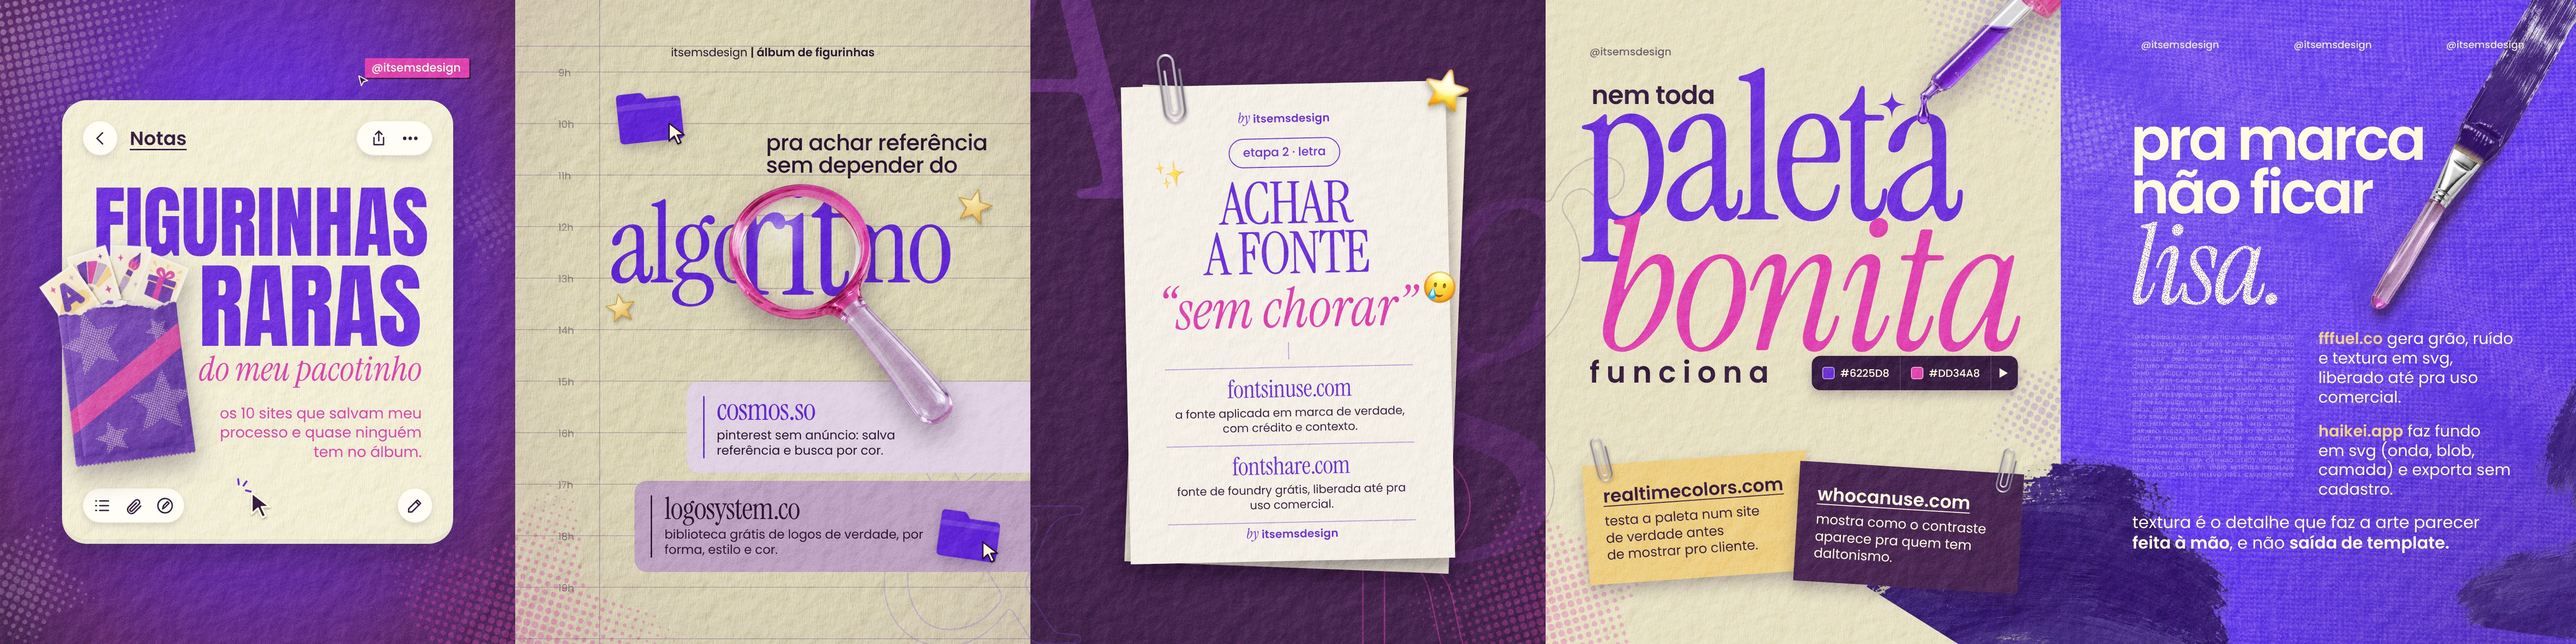
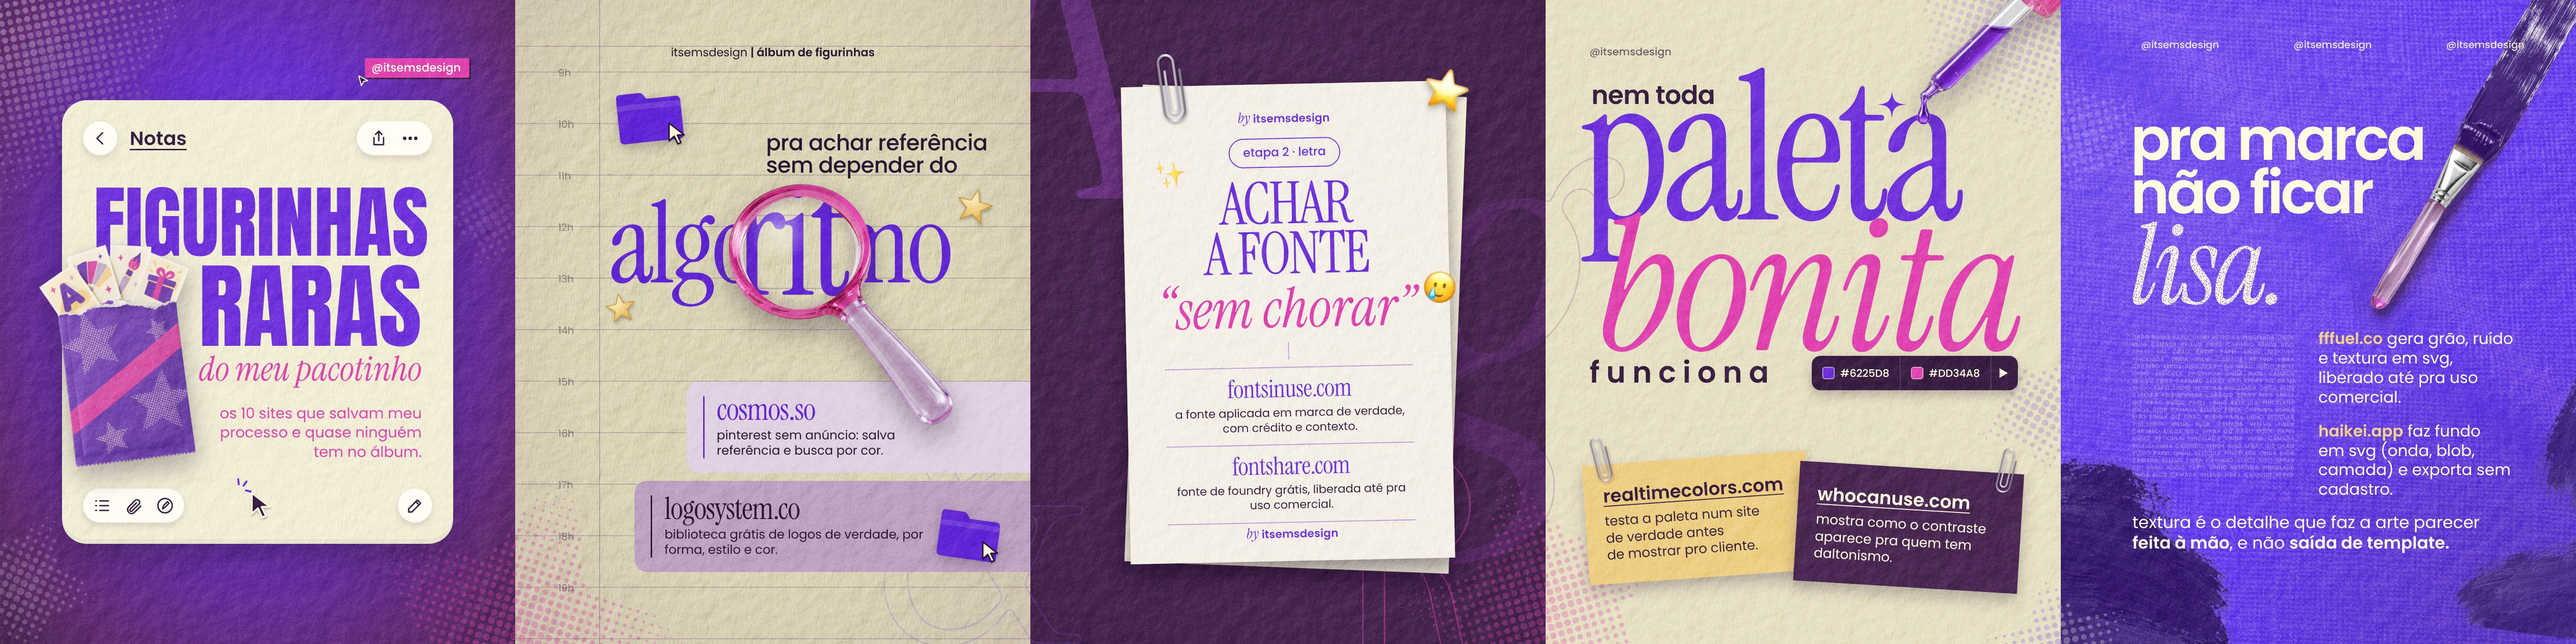
EMS figurinhas raras v4: ponte 4|5 vira estrela em retícula que troca de cor no corte; pincelada fica só na 5
Claude-Session: https://claude.ai/code/session_01CmCiKB9wFc4qQovptupnZT

Changed region(s): [[0.7156, 0.7156, 0.84, 1.0]]

diff --git a/Emi/ems-album-figurinhas/projeto/carrossel.html b/Emi/ems-album-figurinhas/projeto/carrossel.html
@@ -226,6 +226,7 @@ const PINC = 'filter:brightness(.46) saturate(1.3) contrast(1.05)';
   const miudo = Array(14).fill(p.miudo).join(' ');
   const par = (s) => `<p style="margin:0 0 30px"><b style="font-weight:600;color:var(--manteiga)">${s.nome}</b> ${s.pra}</p>`;
   lamina(4, `
+    <img class="abs" src="texturas/pincelada-3.png" style="left:-250px;top:780px;width:520px;transform:rotate(-58deg);${PINC}">
     <img class="abs" src="texturas/pincelada-2.png" style="left:860px;top:640px;width:330px;transform:rotate(8deg);${PINC};opacity:.9">
     <img class="abs" src="${estrelaReticula(340, css('ivory'))}" style="left:-120px;top:110px;width:340px;opacity:.16;transform:rotate(-14deg)">
     <div class="abs" id="tit5" style="left:146px;top:236px;font-family:var(--sans);font-weight:600;font-size:124px;line-height:.9;letter-spacing:-.05em;color:var(--ivory);white-space:nowrap">pra marca<br>não ficar<br><i id="lisa" style="display:inline-block;font-family:var(--serif);font-weight:400;font-size:236px;line-height:.78;letter-spacing:-.03em;margin-top:6px;-webkit-mask-image:var(--mk-gasto);-webkit-mask-size:260px;mask-image:var(--mk-gasto);mask-size:260px">lisa.</i></div>
@@ -253,7 +254,13 @@ const PINC = 'filter:brightness(.46) saturate(1.3) contrast(1.05)';
     pt.insertAdjacentHTML('beforeend', `<div class="abs" style="left:0;top:0;width:${3 * W}px;height:${H}px;overflow:hidden">${g('color:#5a2470;opacity:.45')}</div>
       <div class="abs" style="left:${3 * W}px;top:0;width:${W}px;height:${H}px;overflow:hidden"><div class="abs" style="left:${-3 * W}px;top:0">${g('color:transparent;-webkit-text-stroke:3px rgba(91,33,108,.22)')}</div></div>`);
   }
-  if (N >= 5) pt.insertAdjacentHTML('beforeend', `<img class="abs" src="texturas/pincelada-3.png" style="left:${4 * W - 250}px;top:780px;width:520px;transform:rotate(-58deg);${PINC}">`);
+  /* 4|5: estrela em retícula no pé do corte, violeta no marfim da 4 e marfim no violeta da 5 */
+  if (N >= 5) {
+    const est = (cor) => `<img class="abs" src="${estrelaReticula(380, css(cor))}" style="left:${4 * W - 190}px;top:1175px;width:380px;transform:rotate(-12deg)">`;
+    pt.insertAdjacentHTML('beforeend', `<div class="abs" style="left:0;top:0;width:${4 * W}px;height:${H}px;overflow:hidden;opacity:.3">${est('violeta-2')}</div>`);
+    /* a metade marfim vai na camada da frente, por cima da pincelada escura da 5 */
+    document.getElementById('ponte-frente').insertAdjacentHTML('beforeend', `<div class="abs" style="left:${4 * W}px;top:0;width:${W}px;height:${H}px;overflow:hidden;opacity:.26"><div class="abs" style="left:${-4 * W}px;top:0">${est('ivory')}</div></div>`);
+  }
   if (N >= 4) pt.insertAdjacentHTML('beforeend', `<img class="abs" src="${estrelaReticula(700, css('pink'))}" style="left:${3 * W - 350}px;top:930px;width:700px;opacity:.3;transform:rotate(-16deg)">`);
 })();
 
